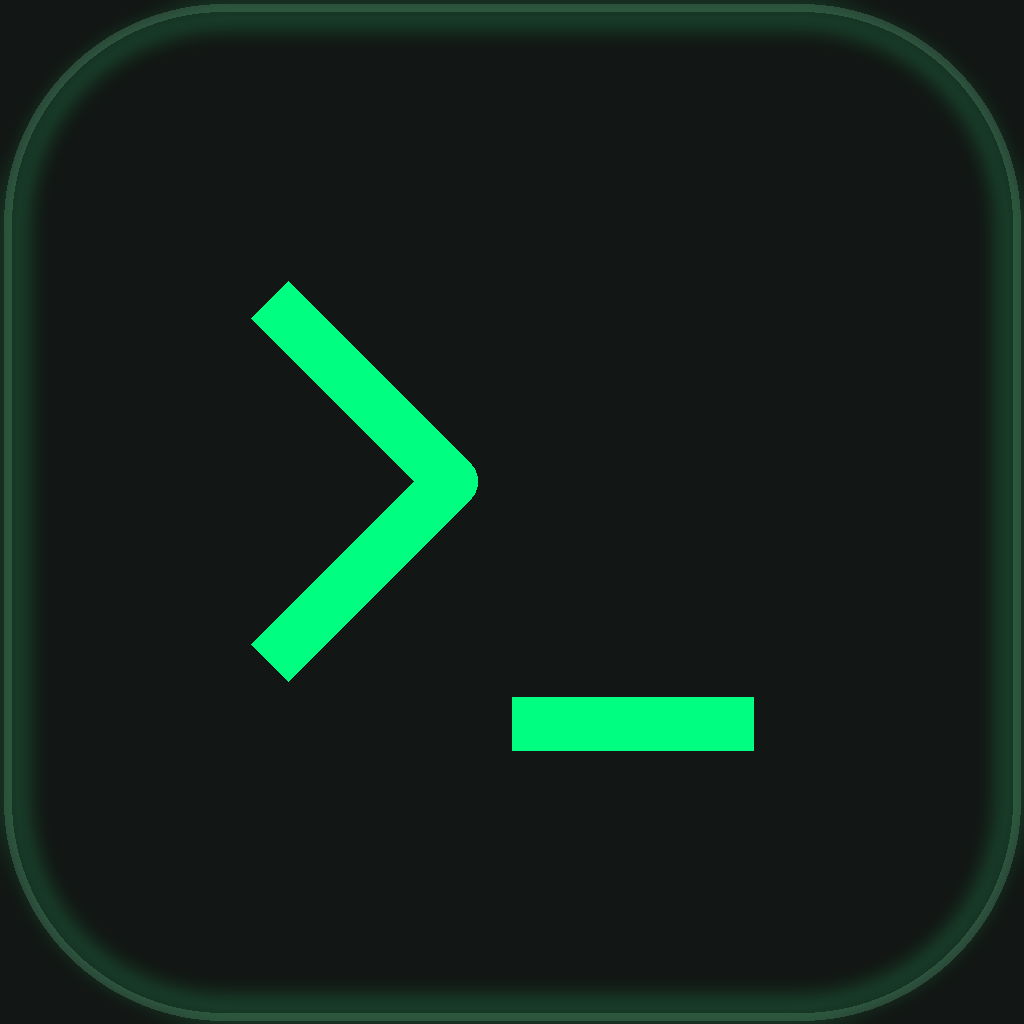
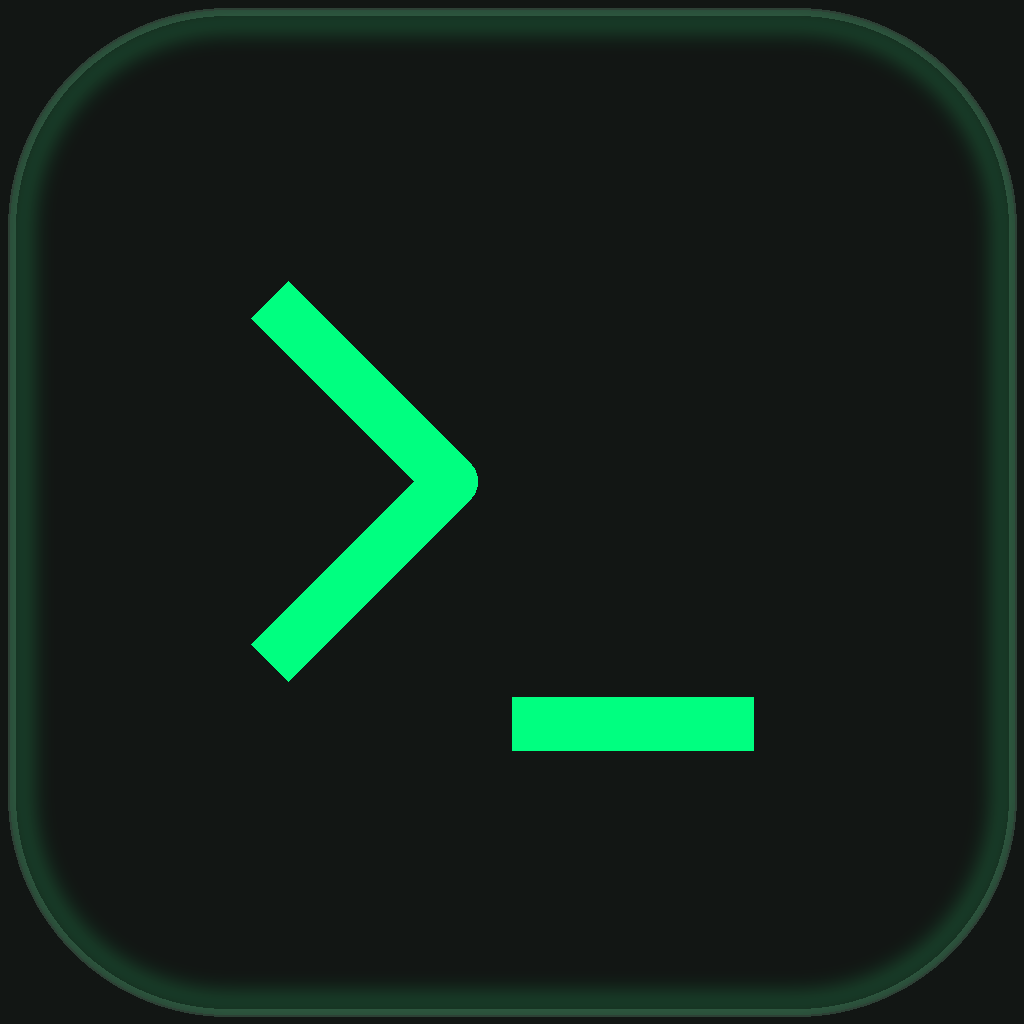
fix: レビュー指摘 4 点を修正
- app.config.js: adaptiveIconBgColor を variantConfig に移動してパレット変更時の乖離を防ぐ
- generate-icons.py: inset を IOS_BORDER_W に修正してストローク全端がキャンバス内に収まるよう修正
- generate-icons.py: full-bleed グローに clip_margin を渡してアルファ漏れを防止、RGB 変換で透明ハローを除去
- generate-icons.py: generate_ios_icon → generate_mobile_icon にリネーム、IOS_INNER_PAD コメント補完

diff --git a/packages/mobile/app.config.js b/packages/mobile/app.config.js
@@ -42,12 +42,14 @@ module.exports = ({ config }) => {
         icon: './assets/icon-dev.png',
         bundleIdentifier: 'com.remocoder.app.dev',
         androidPackage: 'com.remocoder.app.dev',
+        adaptiveIconBgColor: '#121614',
       }
     : {
         name: config.name,
         icon: './assets/icon.png',
         bundleIdentifier: config.ios?.bundleIdentifier,
         androidPackage: config.android?.package,
+        adaptiveIconBgColor: '#121614',
       }
 
   return {
@@ -63,7 +65,7 @@ module.exports = ({ config }) => {
       adaptiveIcon: {
         ...config.android?.adaptiveIcon,
         foregroundImage: variantConfig.icon,
-        backgroundColor: '#121614',
+        backgroundColor: variantConfig.adaptiveIconBgColor,
       },
       package: variantConfig.androidPackage,
       versionCode,

diff --git a/scripts/generate-icons.py b/scripts/generate-icons.py
@@ -12,8 +12,8 @@
   packages/desktop/build/icon-dev.png       -- dev 用アイコン (オレンジ配色)
   packages/desktop/build/icon_tray.png      -- macOS メニューバー (1x)
   packages/desktop/build/icon_tray@2x.png   -- macOS メニューバー (2x Retina)
-  packages/mobile/assets/icon.png           -- iOS/Android アイコン (prod, full-bleed)
-  packages/mobile/assets/icon-dev.png       -- iOS/Android アイコン (dev, full-bleed)
+  packages/mobile/assets/icon.png           -- モバイル (iOS/Android) アイコン (prod, full-bleed)
+  packages/mobile/assets/icon-dev.png       -- モバイル (iOS/Android) アイコン (dev, full-bleed)
 """
 
 import subprocess
@@ -52,7 +52,9 @@ APP_BORDER_W = 6
 # iOS の角丸半径は 1024px に対して約 220px（連続曲線の近似値）
 IOS_CORNER_R  = 220
 IOS_BORDER_W  = 8    # full-bleed では視認性のため desktop より太く
-IOS_INNER_PAD = 150  # 余白なし分を補って視覚的バランスを保つ
+# desktop は MARGIN(122px) + inner_padding(60px) = 182px のインセットでシンボルを描画する。
+# full-bleed では MARGIN がないため inner_padding を大きくして同等の視覚バランスを保つ。
+IOS_INNER_PAD = 150
 
 # ── ヘルパー ─────────────────────────────────────────────────────────────────
 
@@ -116,23 +118,25 @@ def generate_app_icon(
     return result
 
 
-def generate_ios_icon(
+def generate_mobile_icon(
     border_dark: tuple = BORDER_DARK,
     glow_rgb: tuple = GLOW_COLOR,
     symbol_color: tuple = GREEN,
 ) -> 'Image.Image':
     """iOS/Android 用 full-bleed アイコンを生成して返す。
     余白なし・背景色でキャンバス全体を塗りつぶし、枠線を iOS 角丸半径に合わせる。
+    inset = IOS_BORDER_W でストローク全体をキャンバス内に収める（// 2 では外半分がクリップされる）。
     """
     base  = Image.new('RGBA', (SIZE, SIZE), BG_COLOR)
-    inset = IOS_BORDER_W // 2
+    inset = IOS_BORDER_W
     rect  = [inset, inset, SIZE - inset, SIZE - inset]
     ImageDraw.Draw(base).rounded_rectangle(rect, radius=IOS_CORNER_R,
                                            outline=border_dark, width=IOS_BORDER_W)
-    result = _apply_glow(base, rect, IOS_CORNER_R, glow_rgb)
+    result = _apply_glow(base, rect, IOS_CORNER_R, glow_rgb, clip_margin=inset)
     draw_terminal_symbol(ImageDraw.Draw(result), SIZE, margin=0,
                          inner_padding=IOS_INNER_PAD, color=symbol_color)
-    return result
+    # アルファチャンネルを除去してランチャーでの透明ハロー発生を防ぐ
+    return result.convert('RGB').convert('RGBA')
 
 
 def generate_tray_icon(size: int) -> 'Image.Image':
@@ -224,11 +228,11 @@ def main() -> None:
 
     print('Generating mobile icons (full-bleed)...')
     mobile_prod = MOBILE_ASSETS / 'icon.png'
-    generate_ios_icon().save(mobile_prod)
+    generate_mobile_icon().save(mobile_prod)
     print(f'  Saved: {mobile_prod}')
 
     mobile_dev = MOBILE_ASSETS / 'icon-dev.png'
-    generate_ios_icon(
+    generate_mobile_icon(
         border_dark=BORDER_DARK_DEV,
         glow_rgb=GLOW_COLOR_DEV,
         symbol_color=ORANGE,
